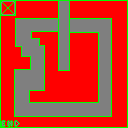
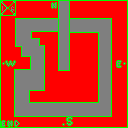
Implemented fog.

diff --git a/core/src/mysko/pilzhere/mode7racer/screens/GameScreen.java b/core/src/mysko/pilzhere/mode7racer/screens/GameScreen.java
@@ -1,14 +1,9 @@
 package mysko.pilzhere.mode7racer.screens;
 
-import java.util.ArrayDeque;
-import java.util.HashMap;
-import java.util.Map.Entry;
-
 import com.badlogic.gdx.Gdx;
 import com.badlogic.gdx.Input;
 import com.badlogic.gdx.Screen;
 import com.badlogic.gdx.assets.AssetManager;
-import com.badlogic.gdx.files.FileHandle;
 import com.badlogic.gdx.graphics.Camera;
 import com.badlogic.gdx.graphics.Color;
 import com.badlogic.gdx.graphics.GL20;
@@ -16,20 +11,17 @@ import com.badlogic.gdx.graphics.PerspectiveCamera;
 import com.badlogic.gdx.graphics.Pixmap;
 import com.badlogic.gdx.graphics.Pixmap.Format;
 import com.badlogic.gdx.graphics.Texture;
-import com.badlogic.gdx.graphics.TextureData;
-import com.badlogic.gdx.graphics.VertexAttributes.Usage;
 import com.badlogic.gdx.graphics.Texture.TextureFilter;
 import com.badlogic.gdx.graphics.Texture.TextureWrap;
+import com.badlogic.gdx.graphics.TextureData;
+import com.badlogic.gdx.graphics.VertexAttributes.Usage;
 import com.badlogic.gdx.graphics.g2d.SpriteBatch;
 import com.badlogic.gdx.graphics.g3d.Material;
 import com.badlogic.gdx.graphics.g3d.Model;
 import com.badlogic.gdx.graphics.g3d.ModelBatch;
 import com.badlogic.gdx.graphics.g3d.ModelInstance;
-import com.badlogic.gdx.graphics.g3d.attributes.ColorAttribute;
 import com.badlogic.gdx.graphics.g3d.attributes.TextureAttribute;
-import com.badlogic.gdx.graphics.g3d.particles.influencers.RegionInfluencer.AspectTextureRegion;
 import com.badlogic.gdx.graphics.g3d.utils.ModelBuilder;
-import com.badlogic.gdx.math.Vector2;
 import com.badlogic.gdx.math.Vector3;
 import com.badlogic.gdx.utils.Array;
 import com.badlogic.gdx.utils.viewport.FitViewport;
@@ -38,7 +30,6 @@ import com.badlogic.gdx.utils.viewport.Viewport;
 import mysko.pilzhere.mode7racer.Mode7Racer;
 import mysko.pilzhere.mode7racer.entities.Entity;
 import mysko.pilzhere.mode7racer.entities.ModelInstanceBB;
-import mysko.pilzhere.mode7racer.entities.tiles.Tile;
 
 public class GameScreen implements Screen {
 	private final Mode7Racer game;
@@ -55,8 +46,13 @@ public class GameScreen implements Screen {
 	private Texture bgGrid;
 	private Texture bgSample;
 	public Texture texTileCurbLeft;
+	public Texture texTileCurbRight;
+	public Texture texTileCurbSouth;
+	public Texture texTileCurbNorth;
 	public Texture texTileRoad01;
 	public Texture texTileVoid;
+	
+	private Texture texFog;
 
 	public Model mdlTile;
 	private ModelInstance mdlInstTile;
@@ -92,16 +88,19 @@ public class GameScreen implements Screen {
 		bgGrid = assMan.get("bg01.png", Texture.class);
 		bgSample = assMan.get("sample256.png", Texture.class);
 		texTileCurbLeft = assMan.get("curbLeft.png", Texture.class);
+		texTileCurbRight = assMan.get("curbRight.png", Texture.class);
+		texTileCurbSouth = assMan.get("curbSouth.png", Texture.class);
+		texTileCurbNorth = assMan.get("curbNorth.png", Texture.class);
 		texTileRoad01 = assMan.get("road01.png", Texture.class);
 		texTileVoid = assMan.get("void.png", Texture.class);
+		texFog = assMan.get("fog01.png", Texture.class);
+		texFog.setWrap(TextureWrap.Repeat, TextureWrap.ClampToEdge);
 
 		mdlTile = assMan.get("grassPlane.g3db", Model.class);
 //		mdlInstTile = new ModelInstance(mdlTile);
 //		mdlInstTile.transform.setTranslation(0, 0, -1);
 
-//		loadLevelFromText();
-//		loadLevelFromTexture();
-		loadLevelFromTexture2();
+		loadLevelFromTexture();
 
 		levelBgBack = assMan.get("levelBg01Back.png", Texture.class);
 		levelBgFront = assMan.get("levelBg01Front.png", Texture.class);
@@ -109,78 +108,84 @@ public class GameScreen implements Screen {
 		levelBgFront.setWrap(TextureWrap.Repeat, TextureWrap.ClampToEdge);
 	}
 
-	private void loadLevelFromText() {
-		FileHandle handle = Gdx.files.local("level01.txt");
-		String text = handle.readString();
-		String wordsArray[] = text.split("\\r?\\n");
+//	private void loadLevelFromText() {
+//		FileHandle handle = Gdx.files.local("level01.txt");
+//		String text = handle.readString();
+//		String wordsArray[] = text.split("\\r?\\n");
+//
+////		Check for level line length. Should be same length.
+////		TODO: Make sure it looks for EVEN LINE LENGTH!
+//		for (int i = 0; i < wordsArray.length; i++) {
+////			System.out.println(wordsArray[i]);
+//			if (wordsArray[i].length() != wordsArray[0].length()) {
+//				System.err.println("Error: Level: Lines not same length. (Line: " + (i + 1) + ")");
+//			}
+//		}
+//
+//		final int levelXOffset = wordsArray[0].length() / 2;
+//		final int levelZOffset = wordsArray.length / 2;
+//
+//		final char death = 'X';
+//		final char road = '#';
+//		final char curb = 'C';
+//
+//		int hori = -1;
+//		int vert = -1;
+//
+////		Place tiles for each char at line
+//		for (int x = -levelXOffset; x < levelXOffset; x++) {
+//			hori++;
+//			for (int z = -levelZOffset; z < levelZOffset; z++) {
+//				vert++;
+//				if (vert > wordsArray.length - 1) {
+//					vert = 0;
+//				}
+//				final char type = wordsArray[vert].charAt(hori);
+//				System.out.println("x: " + hori + " | " + "y: " + vert + " | char: " + type);
+//
+//				entities.add(new Tile(this, new Vector3(x + 0.5f, 0, z), type));
+//			}
+//		}
+//	}
 
-//		Check for level line length. Should be same length.
-//		TODO: Make sure it looks for EVEN LINE LENGTH!
-		for (int i = 0; i < wordsArray.length; i++) {
-//			System.out.println(wordsArray[i]);
-			if (wordsArray[i].length() != wordsArray[0].length()) {
-				System.err.println("Error: Level: Lines not same length. (Line: " + (i + 1) + ")");
-			}
-		}
-
-		final int levelXOffset = wordsArray[0].length() / 2;
-		final int levelZOffset = wordsArray.length / 2;
-
-		final char death = 'X';
-		final char road = '#';
-		final char curb = 'C';
-
-		int hori = -1;
-		int vert = -1;
-
-//		Place tiles for each char at line
-		for (int x = -levelXOffset; x < levelXOffset; x++) {
-			hori++;
-			for (int z = -levelZOffset; z < levelZOffset; z++) {
-				vert++;
-				if (vert > wordsArray.length - 1) {
-					vert = 0;
-				}
-				final char type = wordsArray[vert].charAt(hori);
-				System.out.println("x: " + hori + " | " + "y: " + vert + " | char: " + type);
-
-				entities.add(new Tile(this, new Vector3(x + 0.5f, 0, z), type));
-			}
-		}
-	}
-
-	private void loadLevelFromTexture() {
-		Texture levelMap = assMan.get("level01.png", Texture.class);
-		TextureData levelMapData = levelMap.getTextureData();
-		if (!levelMapData.isPrepared()) {
-			levelMapData.prepare();
-		}
-
-		Pixmap pixmap = levelMapData.consumePixmap();
-
-//		Place tiles for each char at line FROM PIXMAP
-		for (int x = 0; x < pixmap.getWidth(); x++) {
-			for (int y = 0; y < pixmap.getHeight(); y++) {
-				final int pix = pixmap.getPixel(x, y);
-				System.out.println(pix);
-
-				entities.add(new Tile(this, new Vector3((x - (pixmap.getWidth() / 2)), 0, y - (pixmap.getHeight() / 2)),
-						pix));
-			}
-
-		}
-	}
+//	private void loadLevelFromTexture() {
+//		Texture levelMap = assMan.get("level01.png", Texture.class);
+//		TextureData levelMapData = levelMap.getTextureData();
+//		if (!levelMapData.isPrepared()) {
+//			levelMapData.prepare();
+//		}
+//
+//		Pixmap pixmap = levelMapData.consumePixmap();
+//
+////		Place tiles for each char at line FROM PIXMAP
+//		for (int x = 0; x < pixmap.getWidth(); x++) {
+//			for (int y = 0; y < pixmap.getHeight(); y++) {
+//				final int pix = pixmap.getPixel(x, y);
+//				System.out.println(pix);
+//
+//				entities.add(new Tile(this, new Vector3((x - (pixmap.getWidth() / 2)), 0, y - (pixmap.getHeight() / 2)),
+//						pix));
+//			}
+//
+//		}
+//	}
 
 	private final int tileSize = 16;
 
-	private final int red = Color.rgba8888(Color.RED);
-	private final int green = Color.rgba8888(Color.GREEN);
-	private final int grey = Color.rgba8888(Color.GRAY);
-	
-	private void loadLevelFromTexture2() {
+//	Colors
+	private final int redVoid01 = Color.rgba8888(Color.RED);
+
+	private final int greenCurbLeft = Color.rgba8888(Color.GREEN);
+	private final int forestCurbRight = Color.rgba8888(Color.FOREST);
+	private final int limeCurbSouth = Color.rgba8888(Color.LIME);
+	private final int oliveCurbNorth = Color.rgba8888(Color.OLIVE);
+
+	private final int greyRoad01 = Color.rgba8888(Color.GRAY);
+
+	private void loadLevelFromTexture() {
 		long startTime = System.nanoTime();
 		System.out.println("STATUS: Building level started...");
-		
+
 		Texture levelLevelMap = assMan.get("level01.png", Texture.class);
 		TextureData loadedlevelMapData = levelLevelMap.getTextureData();
 		if (!loadedlevelMapData.isPrepared()) {
@@ -201,6 +206,27 @@ public class GameScreen implements Screen {
 
 		Pixmap pixTileCurbLeft = tileCurbLeftData.consumePixmap();
 
+		TextureData tileCurbRightData = texTileCurbRight.getTextureData();
+		if (!tileCurbRightData.isPrepared()) {
+			tileCurbRightData.prepare();
+		}
+
+		Pixmap pixTileCurbRight = tileCurbRightData.consumePixmap();
+
+		TextureData tileCurbSouthData = texTileCurbSouth.getTextureData();
+		if (!tileCurbSouthData.isPrepared()) {
+			tileCurbSouthData.prepare();
+		}
+
+		Pixmap pixTileCurbSouth = tileCurbSouthData.consumePixmap();
+
+		TextureData tileCurbNorthData = texTileCurbNorth.getTextureData();
+		if (!tileCurbNorthData.isPrepared()) {
+			tileCurbNorthData.prepare();
+		}
+
+		Pixmap pixTileCurbNorth = tileCurbNorthData.consumePixmap();
+
 		TextureData tileRoad01Data = texTileRoad01.getTextureData();
 		if (!tileRoad01Data.isPrepared()) {
 			tileRoad01Data.prepare();
@@ -214,7 +240,7 @@ public class GameScreen implements Screen {
 		}
 
 		Pixmap pixTileVoid01 = tileVoidData.consumePixmap();
-		
+
 		int[][] array2d = new int[loadedlevelTextureWidth + 1][loadedlevelTextureHeight + 1];
 
 		int loadedMapPixelX = -1;
@@ -241,7 +267,7 @@ public class GameScreen implements Screen {
 
 		int tileX = -1;
 		int tileY = -1;
-		
+
 		for (int i = 0; i < loadedLevelPixmap.getWidth() * tileSize; i++) {
 			tileX++;
 			if (tileX > tileSize - 1) {
@@ -255,13 +281,24 @@ public class GameScreen implements Screen {
 				}
 
 				final int color = array2d[(i / tileSize)][(j / tileSize)];
-				if (color == red) {
+
+				final int colorAbove = array2d[i / tileSize][(j + 1) / tileSize];
+				final int colorUnder = array2d[i / tileSize][(j - 1) / tileSize];
+				final int colorLeft = array2d[(i - 1) / tileSize][j / tileSize];
+				final int colorRight = array2d[(i + 1) / tileSize][j / tileSize];
+
+				if (color == redVoid01) {
 //					System.out.println("RED");
 					generatedLevelPixmap.drawPixel(i, j, pixTileVoid01.getPixel(tileX, tileY));
-				} else if (color == green) {
+				} else if (color == greenCurbLeft) {
 //					System.out.println("GREEN");
-					generatedLevelPixmap.drawPixel(i, j, pixTileCurbLeft.getPixel(tileX, tileY));
-				} else if (color == grey) {
+//					if (colorAbove == redVoid01) {
+//						generatedLevelPixmap.drawPixel(i, j, pixTileRoad01.getPixel(tileX, tileY));
+//					} else {
+						generatedLevelPixmap.drawPixel(i, j, pixTileCurbLeft.getPixel(tileX, tileY));
+//					}
+
+				} else if (color == greyRoad01) {
 //					System.out.println("GREY");
 					generatedLevelPixmap.drawPixel(i, j, pixTileRoad01.getPixel(tileX, tileY));
 				} else {
@@ -284,9 +321,12 @@ public class GameScreen implements Screen {
 		loadedLevelPixmap.dispose();
 		generatedLevelPixmap.dispose();
 		pixTileCurbLeft.dispose();
+		pixTileCurbRight.dispose();
+		pixTileCurbSouth.dispose();
+		pixTileCurbNorth.dispose();
 		pixTileRoad01.dispose();
 		pixTileVoid01.dispose();
-		
+
 		long endTime = System.nanoTime();
 		System.out.println("STATUS: Building level finished. (" + (endTime - startTime) / 1000000 + " ms)");
 	}
@@ -390,13 +430,23 @@ public class GameScreen implements Screen {
 		batch.getProjectionMatrix().setToOrtho2D(0, 0, viewportWidthStretched, viewportHeight);
 
 		mdlBatch.begin(cam);
-		for (Entity entity : entities) {
-			entity.render3D(delta);
-		}
+//		for (Entity entity : entities) {
+//			entity.render3D(delta);
+//		}
 
 		mdlBatch.render(mdlInstLevel);
 
 		mdlBatch.end();
+		
+		batch.getProjectionMatrix().setToOrtho2D(0, 0, viewportWidth, viewportHeight);
+		
+		batch.begin();
+		batch.setColor(Color.WHITE); // Use to tint color of fog for loaded level.
+		batch.draw(texFog, 0, viewportHeight - 75, 0, 0, viewportWidthStretched, 40);
+		batch.setColor(Color.WHITE);
+		batch.end();
+		
+		batch.getProjectionMatrix().setToOrtho2D(0, 0, viewportWidthStretched, viewportHeight);
 
 		if (useFbo) {
 			game.fb01.end();

diff --git a/core/src/mysko/pilzhere/mode7racer/Mode7Racer.java b/core/src/mysko/pilzhere/mode7racer/Mode7Racer.java
@@ -43,7 +43,7 @@ public class Mode7Racer extends Game {
 	public void create () {
 		assMan = new AssetManager();
 		
-		fb01 = new FrameBuffer(Format.RGBA8888, 256, 224, true);
+		fb01 = new FrameBuffer(Format.RGB888, 256, 224, true);
 		fb01.getColorBufferTexture().setFilter(TextureFilter.Nearest, TextureFilter.Nearest);
 		
 		batch = new SpriteBatch();
@@ -59,11 +59,16 @@ public class Mode7Racer extends Game {
 		assMan.load("sample256.png", Texture.class);
 		assMan.load("grassPlane.g3db", Model.class);
 		assMan.load("curbLeft.png", Texture.class);
+		assMan.load("curbRight.png", Texture.class);
+		assMan.load("curbSouth.png", Texture.class);
+		assMan.load("curbNorth.png", Texture.class);
 		assMan.load("road01.png", Texture.class);
 		assMan.load("void.png", Texture.class);
 		
 		assMan.load("levelBg01Back.png", Texture.class);
 		assMan.load("levelBg01Front.png", Texture.class);
+		
+		assMan.load("fog01.png", Texture.class);
 		
 		assMan.load("level01.png", Texture.class);
 		
